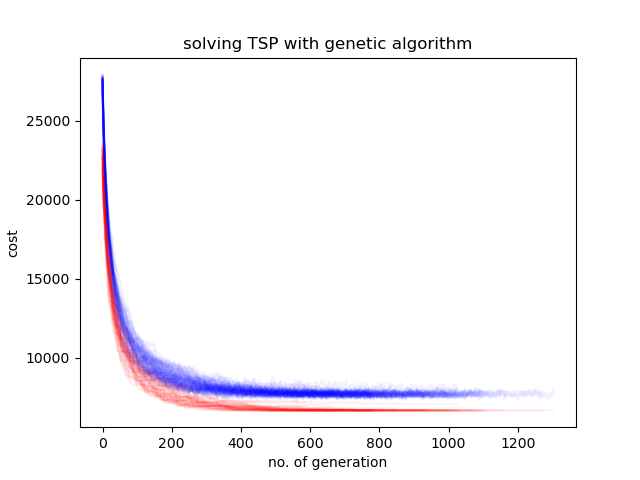
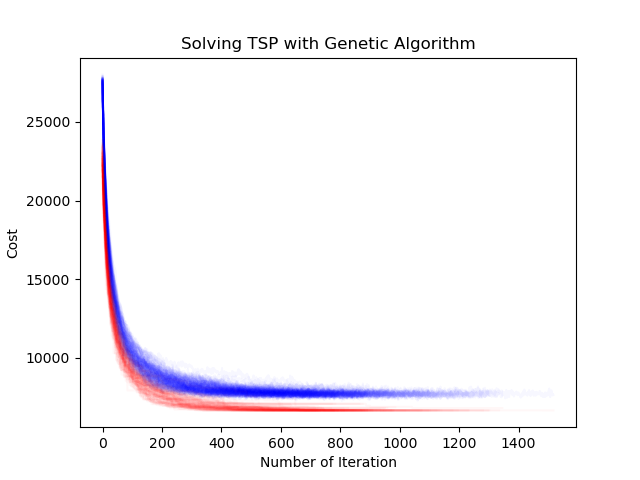
change imgs

diff --git a/main.py b/main.py
@@ -12,10 +12,12 @@ import tb
 import ga
 import sa
 
+
 # load data
 
 pos = [[float(x) for x in s.split()[1:]] for s in open('data/dj38.txt').readlines()]
 n = len(pos)
+
 
 # calculate adjacency matrix
 
@@ -28,7 +30,7 @@ for i in range(n):
 # initialization
 
 opt_cost = 6659.439330623091  # get result from tsp_gurobi.py
-num_tests = 10  # number of iid tests
+num_tests = 100  # number of iid tests
 result = {'best_sol': [], 'best_cost': math.inf, 'best_gap': math.inf,
           'cost': [0] * num_tests, 'time': [0] * num_tests,
           'avg_cost': math.inf, 'avg_gap': math.inf, 'cost_std': math.inf,
@@ -37,22 +39,27 @@ best_cost = math.inf
 best_sol = []
 data = {}
 
+
 # set method
 
-# method = 'ts'  # tabu search
+method = 'ts'  # tabu search
 # method = 'ga'  # genetic algorithm
-method = 'sa'  # simulated annealing
+# method = 'sa'  # simulated annealing
+
 
 # set mutation method
 
 # mut_md = [get_new_sol_swap, get_delta_swap]
 mut_md = [get_new_sol_2opt, get_delta_2opt]
 
+
 # run and visualization
 
+method_name = ''
 for _ in tqdm(range(num_tests)):
     start = time.time()
     if method == 'ts':
+        method_name = 'Tabu Search'
         best_sol, best_cost, data = tb.tb(n, adj_mat,
                                           tb_size=20,  # tabu solutions in tb_list
                                           max_tnm=100,  # how many candidates picked in tournament selection
@@ -60,8 +67,9 @@ for _ in tqdm(range(num_tests)):
                                           term_count=200  # terminate threshold if best_cost nor change
                                           )
     elif method == 'ga':
+        method_name = 'Genetic Algorithm'
         best_sol, best_cost, data = ga.ga(n, adj_mat,
-                                          n_pop=500,
+                                          n_pop=200,
                                           r_cross=0.5,
                                           r_mut=0.8,
                                           selection_md='tnm',  # 'rw' / 'tnm' / 'elt'
@@ -69,6 +77,7 @@ for _ in tqdm(range(num_tests)):
                                           term_count=200
                                           )
     elif method == 'sa':
+        method_name = 'Simulated Annealing'
         best_sol, best_cost, data = sa.sa(n, adj_mat,
                                           tb_size=0,  # tabu solutions in tb_list
                                           max_tnm=20,  # how many candidates picked in tournament selection
@@ -91,9 +100,9 @@ for _ in tqdm(range(num_tests)):
     plt.plot(range(len(data['cost'])), data['best_cost'], color='r', alpha=math.pow(num_tests, -0.75))
 
 
-plt.title('solving TSP with {}'.format(method))
-plt.xlabel('no. of generation')
-plt.ylabel('cost')
+plt.title('Solving TSP with {}'.format(method_name))
+plt.xlabel('Number of Iteration')
+plt.ylabel('Cost')
 plt.savefig('results/{}.png'.format(method))
 
 # print results
@@ -121,8 +130,7 @@ if num_tests == 1 and method == 'simulated annealing':
     ax[1].set(xlabel='Number of Iteration', ylabel='Tour Length',
               title='Convergence Curve')
     ims = []
-    #for i in range(len(data['sol'])):
-    for i in range(10):
+    for i in range(len(data['sol'])):
         im = []
         sol = data['sol'][i]
         best_sol = data['best_sol'][i]
